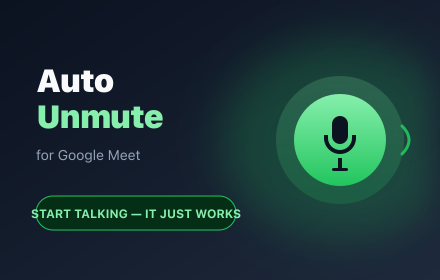
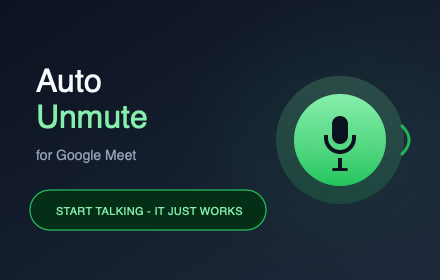
docs: release runbook, store-asset render script, promo-small fix
- README: add end-to-end release + CWS deploy runbook for agents
- docs/api-publish-setup.md: clarify manual listing-metadata boundary
- store_assets/src/promo-small.svg: keep tagline text inside frame lines
- store_assets/out/promo-small.png, docs/screenshots/promo-small.png: regenerate
- scripts/render-store-assets.sh: reproducible store-asset rendering

diff --git a/README.md b/README.md
@@ -113,21 +113,70 @@ https://chromewebstore.google.com/detail/google-meet-auto-unmute/bgpcnhfoanbgbjh
 
 Full policy: [`docs/privacy.md`](./docs/privacy.md)
 
-## Build and release
+## Release and Web Store deployment (agent runbook)
 
-Build zip:
+If an agent needs to ship a full release end-to-end, use this sequence.
+
+### 1) Pre-flight checks
+
+- Update `manifest.json` version.
+- Keep `manifest.json` description at **132 chars max** (Chrome Web Store hard limit).
+- If listing artwork changed, regenerate PNGs from SVG (pass one or more asset names, or no args for all):
 
 ```bash
+bash scripts/render-store-assets.sh promo-small
+```
+
+- Keep listing copy current in `docs/store-listing.md`.
+
+### 2) Build and release (fully automated)
+
+```bash
+# build package
 bash scripts/build-zip.sh
-# -> dist/auto_unmute-<version>.zip
+
+# commit + push
+git add .
+git commit -m "vX.Y.Z: <release summary>"
+git push origin main
+
+# tag-driven release + CWS upload/publish workflow
+git tag -a vX.Y.Z -m "vX.Y.Z"
+git push origin vX.Y.Z
 ```
 
-Automated GitHub release workflow (tag push):
+Tag push triggers `.github/workflows/release.yml`, which:
+
+1. Builds ZIP and attaches it to GitHub Release
+2. Uploads ZIP to Chrome Web Store
+3. Submits for review
+
+### 3) Verify pipeline status
 
 ```bash
-git tag vX.Y.Z
-git push --tags
+gh run list --workflow release.yml --limit 5
+gh run view <run-id> --log-failed
 ```
+
+Look specifically for these steps in the `publish` job:
+
+- `Upload new ZIP to Chrome Web Store`
+- `Submit for review`
+
+### 4) What is not automated (manual dashboard updates)
+
+Chrome Web Store API upload/publish does **not** manage listing metadata fields (description, screenshots, promo art, category text polish).
+
+For listing updates, open the dashboard item and update manually using:
+
+- Copy source: `docs/store-listing.md`
+- Small promo tile (search results): `store_assets/out/promo-small.png`
+- Marquee tile: `store_assets/out/promo-marquee.png`
+- Screenshots: `store_assets/out/screenshot-*.png`
+
+Dashboard: `https://chromewebstore.google.com/`
+
+Full API setup notes: `docs/api-publish-setup.md`
 
 ## Credits and license
 

diff --git a/docs/api-publish-setup.md b/docs/api-publish-setup.md
@@ -47,11 +47,18 @@ It prints the new **extension ID** (32-char string). Save it.
 
 > Alternative: upload `dist/auto_unmute-1.0.0.zip` once via the dashboard at https://chrome.google.com/webstore/devconsole — the extension ID then appears in the URL of the item's edit page. Either way works.
 
-### 4. Fill the listing form (one time only)
+### 4. Fill/update the listing form (manual)
 
 Open the item in the dashboard: https://chrome.google.com/webstore/devconsole
 
-Listing fields (description, screenshots, category, privacy policy URL, etc.) **cannot be set via API** — fill them in once. Copy/paste from `docs/store-listing.md`. After this, every API-driven update inherits these settings.
+Listing fields (description, screenshots, promo images, category, privacy policy URL, etc.) **cannot be set via API** — update them in the dashboard manually whenever copy/visuals change.
+
+Use these repo sources:
+
+- Text: `docs/store-listing.md`
+- Small promo tile (search results card): `store_assets/out/promo-small.png`
+- Marquee promo: `store_assets/out/promo-marquee.png`
+- Screenshots: `store_assets/out/screenshot-*.png`
 
 ### 5. Add GitHub secrets
 
@@ -86,3 +93,4 @@ You can also trigger a publish manually without tagging via **Actions → Build 
 - The `publish` workflow job is gated on the secrets existing — it'll skip with a warning if any are missing, so the build still works for forks.
 - Refresh tokens issued by an OAuth app in **Testing** mode expire after 7 days. To avoid this, click **Publish App** on the OAuth consent screen → "In production". You don't need Google's verification for an internal-only token; the unverified-app warning only affects new sign-ins.
 - The `chrome-webstore-upload-cli` package is the underlying tool ([docs](https://github.com/fregante/chrome-webstore-upload-cli)).
+- To regenerate listing PNGs from SVG sources: `bash scripts/render-store-assets.sh [asset-name ...]`.
